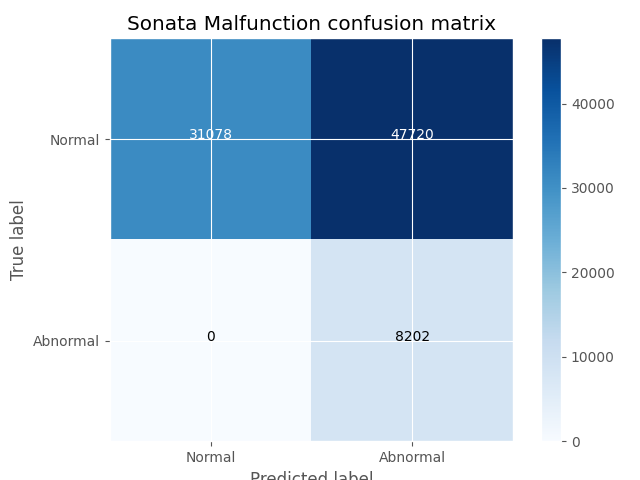
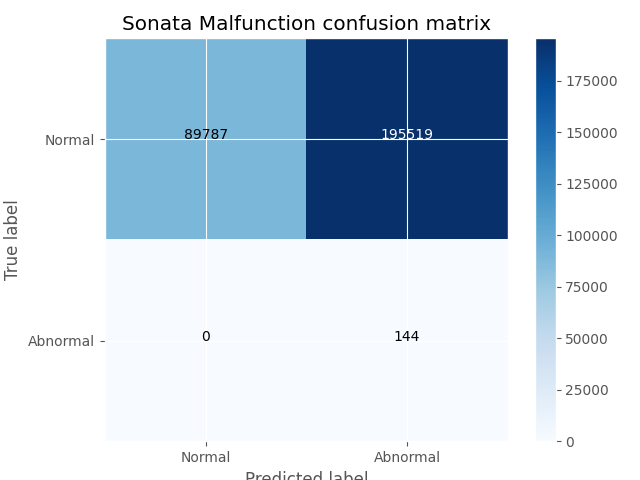
final results 6th week

diff --git a/MainTesting.py b/MainTesting.py
@@ -176,8 +176,9 @@ def train2test(car, attack):
     plot_confusion_matrix(cnf_matrix, classes=['Normal', 'Abnormal'], title='Confusion matrix',car=car,attack=attack)
 
 if __name__=='__main__':
-    car_type = ["Sonata","Soul","Spark"]
-    attack_type = ["Fuzzy","Flooding","Malfunction"]
+    # Flooding 도 하면 좋겠지만 파일이 하나라서...TT
+    car_type = ["Sonata","Soul"]
+    attack_type = ["Fuzzy","Malfunction"]
     # 실제 구현으로는 아래 반복문 안에서 실행시키면 될 것
 
     for car in car_type:

diff --git a/LDK.py b/LDK.py
@@ -1,6 +1,6 @@
 from Utils import Message
 
 if __name__=='__main__':
-    msg=Message("study_input","Sonata","Flooding")
+    msg=Message("study_input","Sonata","Fuzzy")
     msg.read_file()
     msg.study_and_test()
